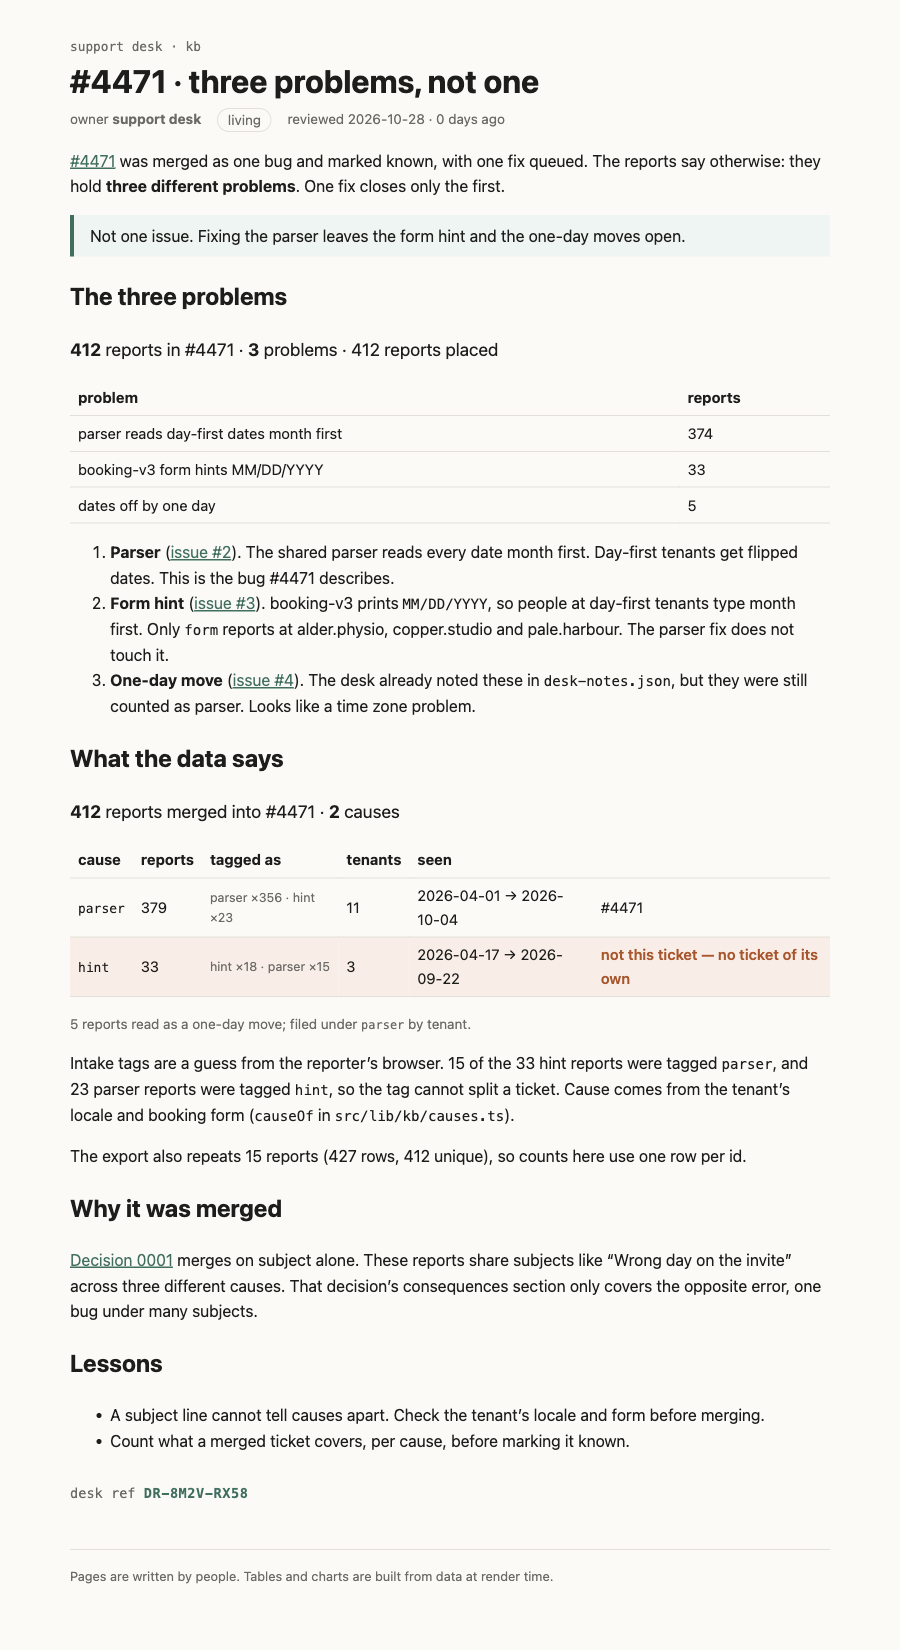
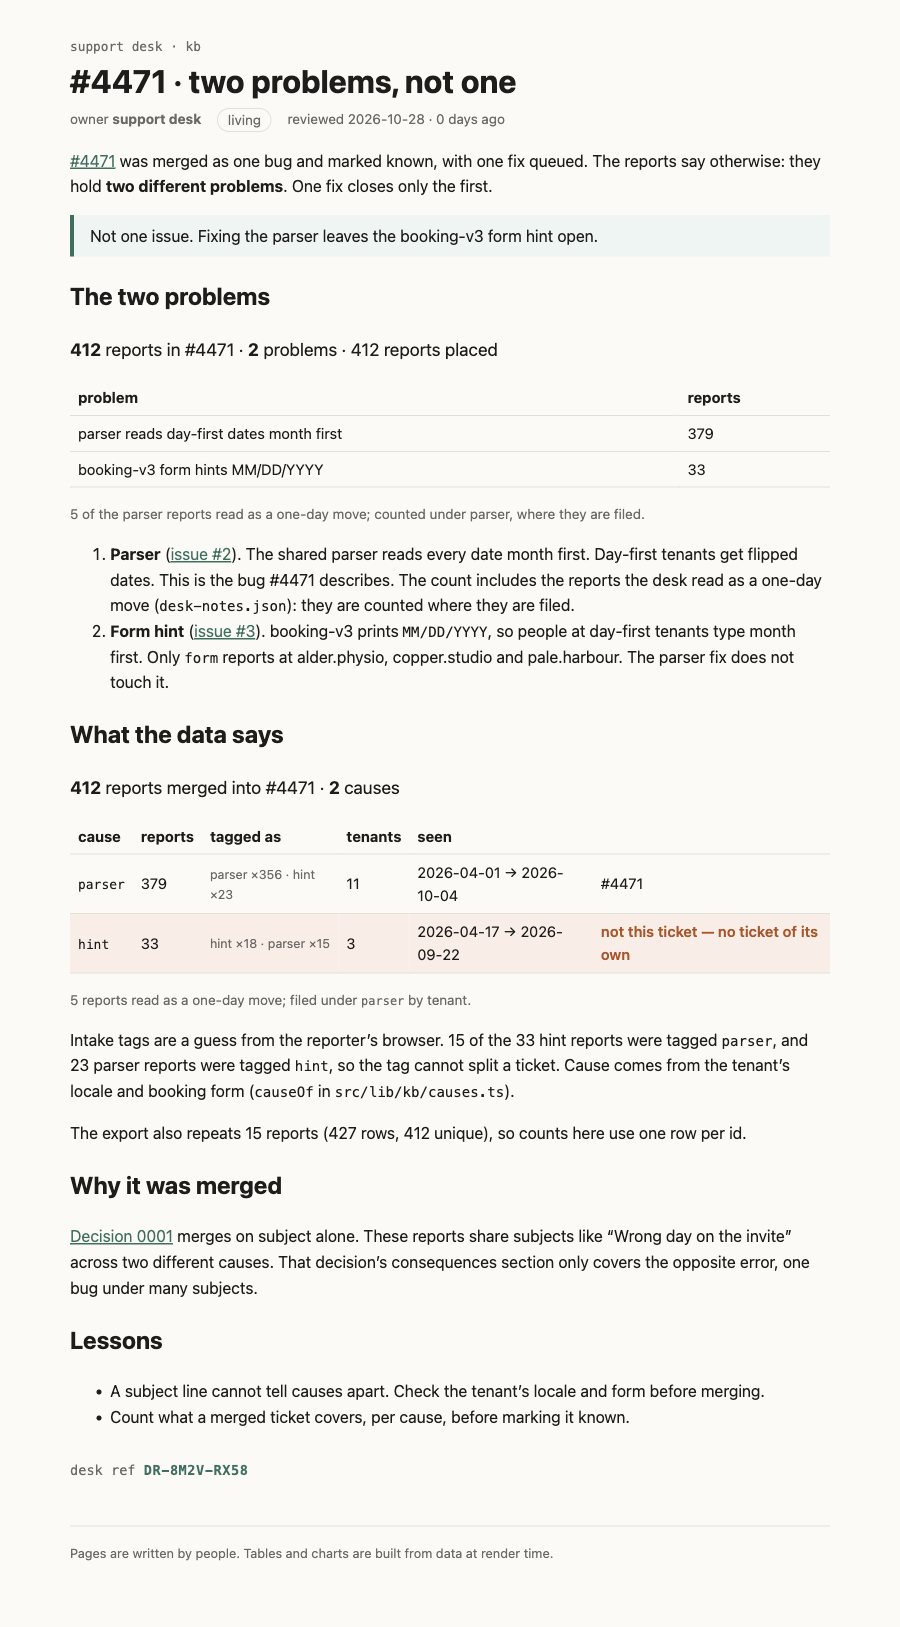
Count the one-day-move reports under parser; two problems

Changed region(s): [[0.0622, 0.0307, 0.9022, 0.9219], [0.4044, 0.1844, 0.56, 0.2151]]

diff --git a/support-kb/rendered/4471-split.html b/support-kb/rendered/4471-split.html
@@ -1,8 +1,8 @@
-<!doctype html><html><head><meta charset="utf-8"><!--12p242h--><!----><title>#4471 · three problems, not one · support kb</title><style id="svelte-12p242h">:root {--bg: #fbfaf7;--fg: #1d1d1b;--muted: #6b6a66;--line: #e3e0d8;--accent: #2f6f5e;--warn: #b4501f;--warn-bg: #fbeee6;--note-bg: #eef5f2;--mono: ui-monospace, 'Cascadia Code', Menlo, monospace;}
+<!doctype html><html><head><meta charset="utf-8"><!--12p242h--><!----><title>#4471 · two problems, not one · support kb</title><style id="svelte-12p242h">:root {--bg: #fbfaf7;--fg: #1d1d1b;--muted: #6b6a66;--line: #e3e0d8;--accent: #2f6f5e;--warn: #b4501f;--warn-bg: #fbeee6;--note-bg: #eef5f2;--mono: ui-monospace, 'Cascadia Code', Menlo, monospace;}
   @media (prefers-color-scheme: dark) {:root {--bg: #171716;--fg: #ecebe6;--muted: #9c9a93;--line: #34332f;--accent: #6fbfa6;--warn: #f0905d;--warn-bg: #3a2418;--note-bg: #1d2c27;}
-  }body {margin:0;background:var(--bg);color:var(--fg);font:16px/1.6 system-ui, sans-serif;}.kb table {border-collapse:collapse;width:100%;margin:1rem 0;font-size:0.92rem;}.kb th, .kb td {border-bottom:1px solid var(--line);padding:0.35rem 0.5rem;text-align:left;}.kb code {font-family:var(--mono);font-size:0.88em;}.kb a {color:var(--accent);}.kb.svelte-12p242h {max-width:760px;margin:0 auto;padding:2rem 16px 4rem;}.crumb.svelte-12p242h {font:0.8rem var(--mono);text-decoration:none;color:var(--muted);}h1.svelte-12p242h {margin:0.25rem 0 0.5rem;line-height:1.2;}.meta.svelte-12p242h {display:flex;flex-wrap:wrap;gap:0.5rem 1rem;color:var(--muted);font-size:0.85rem;margin:0;}.status.svelte-12p242h {border:1px solid var(--line);border-radius:99px;padding:0 0.6rem;}.stale.svelte-12p242h {color:var(--warn);font-weight:600;}.banner.svelte-12p242h {background:var(--warn-bg);color:var(--warn);padding:0.6rem 1rem;border-radius:6px;}footer.svelte-12p242h {margin-top:3rem;color:var(--muted);font-size:0.8rem;border-top:1px solid var(--line);padding-top:1rem;}</style><style id="svelte-13fbx6b">aside.svelte-13fbx6b {border-left:4px solid var(--accent);padding:0.5rem 1rem;margin:1rem 0;background:var(--note-bg);}aside.warn.svelte-13fbx6b {border-color:var(--warn);background:var(--warn-bg);}</style><style id="svelte-napuhc">.sum.svelte-napuhc {font-size:1.1rem;}</style><style id="svelte-ogfzus">.sum.svelte-ogfzus {font-size:1.1rem;}.tags.svelte-ogfzus {color:var(--muted);font-size:0.85em;}.note.svelte-ogfzus {color:var(--muted);font-size:0.85em;}.wrong.svelte-ogfzus td:where(.svelte-ogfzus) {background:var(--warn-bg);}.wrong.svelte-ogfzus td:where(.svelte-ogfzus):last-child {color:var(--warn);font-weight:600;}</style><style id="svelte-1keb8zs">.stamp.svelte-1keb8zs {margin:2rem 0 0;font:0.85rem var(--mono);color:var(--muted);}.stamp.svelte-1keb8zs b:where(.svelte-1keb8zs) {color:var(--accent);letter-spacing:0.04em;}.missing.svelte-1keb8zs {color:var(--warn);}</style></head><body><!--[--><div class="kb svelte-12p242h"><header class="svelte-12p242h"><a class="crumb svelte-12p242h" href="/kb">support desk · kb</a> <h1 class="svelte-12p242h">#4471 · three problems, not one</h1> <p class="meta svelte-12p242h"><span class="svelte-12p242h">owner <b class="svelte-12p242h">support desk</b></span> <span class="status living svelte-12p242h">living</span> <span class="svelte-12p242h">reviewed 2026-10-28 · 0 days ago</span></p></header> <!--[-1--><!--]--> <main class="svelte-12p242h"><p><a href="/kb/incidents/4471">#4471</a> was merged as one bug and marked known, with one fix queued. The
-reports say otherwise: they hold <strong>three different problems</strong>. One fix closes only the first.</p> <aside class="note svelte-13fbx6b"><!---->Not one issue. Fixing the parser leaves the form hint and the one-day moves open.<!----></aside><!----> <h2>The three problems</h2> <p class="sum svelte-napuhc"><strong class="svelte-napuhc">412</strong> reports in #4471 · <strong class="svelte-napuhc">3</strong> problems ·
-  412 reports placed</p> <table class="svelte-napuhc"><thead class="svelte-napuhc"><tr class="svelte-napuhc"><th class="svelte-napuhc">problem</th><th class="svelte-napuhc">reports</th></tr></thead><tbody class="svelte-napuhc"><!--[--><tr class="svelte-napuhc"><td class="svelte-napuhc">parser reads day-first dates month first</td><td class="svelte-napuhc">374</td></tr><tr class="svelte-napuhc"><td class="svelte-napuhc">booking-v3 form hints MM/DD/YYYY</td><td class="svelte-napuhc">33</td></tr><tr class="svelte-napuhc"><td class="svelte-napuhc">dates off by one day</td><td class="svelte-napuhc">5</td></tr><!--]--></tbody></table><!----> <ol><li><strong>Parser</strong> (<a href="https://github.com/pablocabrera85/empty-repo/issues/2" rel="nofollow">issue #2</a>). The shared parser reads every date month first. Day-first tenants get flipped dates. This is the bug #4471 describes.</li> <li><strong>Form hint</strong> (<a href="https://github.com/pablocabrera85/empty-repo/issues/3" rel="nofollow">issue #3</a>). booking-v3 prints <code>MM/DD/YYYY</code>, so people at day-first tenants type month first. Only <code>form</code> reports at alder.physio, copper.studio and pale.harbour. The parser fix does not touch it.</li> <li><strong>One-day move</strong> (<a href="https://github.com/pablocabrera85/empty-repo/issues/4" rel="nofollow">issue #4</a>). The desk already noted these in <code>desk-notes.json</code>, but they were still counted as parser. Looks like a time zone problem.</li></ol> <h2>What the data says</h2> <p class="sum svelte-ogfzus"><strong class="svelte-ogfzus">412</strong> reports merged into #4471 · <strong class="svelte-ogfzus">2</strong> causes</p> <table class="svelte-ogfzus"><thead class="svelte-ogfzus"><tr class="svelte-ogfzus"><th class="svelte-ogfzus">cause</th><th class="svelte-ogfzus">reports</th><th class="svelte-ogfzus">tagged as</th><th class="svelte-ogfzus">tenants</th><th class="svelte-ogfzus">seen</th><th class="svelte-ogfzus"></th></tr></thead><tbody class="svelte-ogfzus"><!--[--><tr class="svelte-ogfzus"><td class="svelte-ogfzus"><code class="svelte-ogfzus">parser</code></td><td class="svelte-ogfzus">379</td><td class="tags svelte-ogfzus">parser ×356 · hint ×23</td><td class="svelte-ogfzus">11</td><td class="svelte-ogfzus">2026-04-01 → 2026-10-04</td><td class="svelte-ogfzus">#4471</td></tr><tr class="svelte-ogfzus wrong"><td class="svelte-ogfzus"><code class="svelte-ogfzus">hint</code></td><td class="svelte-ogfzus">33</td><td class="tags svelte-ogfzus">hint ×18 · parser ×15</td><td class="svelte-ogfzus">3</td><td class="svelte-ogfzus">2026-04-17 → 2026-09-22</td><td class="svelte-ogfzus">not this ticket — no ticket of its own</td></tr><!--]--></tbody></table> <!--[--><!--[0--><p class="note svelte-ogfzus">5 reports read as a one-day move; filed under <code class="svelte-ogfzus">parser</code> by tenant.</p><!--]--><!--[-1--><!--]--><!--]--><!----> <p>Intake tags are a guess from the reporter’s browser. 15 of the 33 hint reports were tagged <code>parser</code>, and 23 parser reports were tagged <code>hint</code>, so the tag cannot split a ticket.
+  }body {margin:0;background:var(--bg);color:var(--fg);font:16px/1.6 system-ui, sans-serif;}.kb table {border-collapse:collapse;width:100%;margin:1rem 0;font-size:0.92rem;}.kb th, .kb td {border-bottom:1px solid var(--line);padding:0.35rem 0.5rem;text-align:left;}.kb code {font-family:var(--mono);font-size:0.88em;}.kb a {color:var(--accent);}.kb.svelte-12p242h {max-width:760px;margin:0 auto;padding:2rem 16px 4rem;}.crumb.svelte-12p242h {font:0.8rem var(--mono);text-decoration:none;color:var(--muted);}h1.svelte-12p242h {margin:0.25rem 0 0.5rem;line-height:1.2;}.meta.svelte-12p242h {display:flex;flex-wrap:wrap;gap:0.5rem 1rem;color:var(--muted);font-size:0.85rem;margin:0;}.status.svelte-12p242h {border:1px solid var(--line);border-radius:99px;padding:0 0.6rem;}.stale.svelte-12p242h {color:var(--warn);font-weight:600;}.banner.svelte-12p242h {background:var(--warn-bg);color:var(--warn);padding:0.6rem 1rem;border-radius:6px;}footer.svelte-12p242h {margin-top:3rem;color:var(--muted);font-size:0.8rem;border-top:1px solid var(--line);padding-top:1rem;}</style><style id="svelte-13fbx6b">aside.svelte-13fbx6b {border-left:4px solid var(--accent);padding:0.5rem 1rem;margin:1rem 0;background:var(--note-bg);}aside.warn.svelte-13fbx6b {border-color:var(--warn);background:var(--warn-bg);}</style><style id="svelte-napuhc">.sum.svelte-napuhc {font-size:1.1rem;}.note.svelte-napuhc {color:var(--muted);font-size:0.85em;}</style><style id="svelte-ogfzus">.sum.svelte-ogfzus {font-size:1.1rem;}.tags.svelte-ogfzus {color:var(--muted);font-size:0.85em;}.note.svelte-ogfzus {color:var(--muted);font-size:0.85em;}.wrong.svelte-ogfzus td:where(.svelte-ogfzus) {background:var(--warn-bg);}.wrong.svelte-ogfzus td:where(.svelte-ogfzus):last-child {color:var(--warn);font-weight:600;}</style><style id="svelte-1keb8zs">.stamp.svelte-1keb8zs {margin:2rem 0 0;font:0.85rem var(--mono);color:var(--muted);}.stamp.svelte-1keb8zs b:where(.svelte-1keb8zs) {color:var(--accent);letter-spacing:0.04em;}.missing.svelte-1keb8zs {color:var(--warn);}</style></head><body><!--[--><div class="kb svelte-12p242h"><header class="svelte-12p242h"><a class="crumb svelte-12p242h" href="/kb">support desk · kb</a> <h1 class="svelte-12p242h">#4471 · two problems, not one</h1> <p class="meta svelte-12p242h"><span class="svelte-12p242h">owner <b class="svelte-12p242h">support desk</b></span> <span class="status living svelte-12p242h">living</span> <span class="svelte-12p242h">reviewed 2026-10-28 · 0 days ago</span></p></header> <!--[-1--><!--]--> <main class="svelte-12p242h"><p><a href="/kb/incidents/4471">#4471</a> was merged as one bug and marked known, with one fix queued. The
+reports say otherwise: they hold <strong>two different problems</strong>. One fix closes only the first.</p> <aside class="note svelte-13fbx6b"><!---->Not one issue. Fixing the parser leaves the booking-v3 form hint open.<!----></aside><!----> <h2>The two problems</h2> <p class="sum svelte-napuhc"><strong class="svelte-napuhc">412</strong> reports in #4471 · <strong class="svelte-napuhc">2</strong> problems ·
+  412 reports placed</p> <table class="svelte-napuhc"><thead class="svelte-napuhc"><tr class="svelte-napuhc"><th class="svelte-napuhc">problem</th><th class="svelte-napuhc">reports</th></tr></thead><tbody class="svelte-napuhc"><!--[--><tr class="svelte-napuhc"><td class="svelte-napuhc">parser reads day-first dates month first</td><td class="svelte-napuhc">379</td></tr><tr class="svelte-napuhc"><td class="svelte-napuhc">booking-v3 form hints MM/DD/YYYY</td><td class="svelte-napuhc">33</td></tr><!--]--></tbody></table> <!--[0--><p class="note svelte-napuhc">5 of the parser reports read as a one-day move; counted under parser, where they are filed.</p><!--]--><!----> <ol><li><strong>Parser</strong> (<a href="https://github.com/pablocabrera85/empty-repo/issues/2" rel="nofollow">issue #2</a>). The shared parser reads every date month first. Day-first tenants get flipped dates. This is the bug #4471 describes. The count includes the reports the desk read as a one-day move (<code>desk-notes.json</code>): they are counted where they are filed.</li> <li><strong>Form hint</strong> (<a href="https://github.com/pablocabrera85/empty-repo/issues/3" rel="nofollow">issue #3</a>). booking-v3 prints <code>MM/DD/YYYY</code>, so people at day-first tenants type month first. Only <code>form</code> reports at alder.physio, copper.studio and pale.harbour. The parser fix does not touch it.</li></ol> <h2>What the data says</h2> <p class="sum svelte-ogfzus"><strong class="svelte-ogfzus">412</strong> reports merged into #4471 · <strong class="svelte-ogfzus">2</strong> causes</p> <table class="svelte-ogfzus"><thead class="svelte-ogfzus"><tr class="svelte-ogfzus"><th class="svelte-ogfzus">cause</th><th class="svelte-ogfzus">reports</th><th class="svelte-ogfzus">tagged as</th><th class="svelte-ogfzus">tenants</th><th class="svelte-ogfzus">seen</th><th class="svelte-ogfzus"></th></tr></thead><tbody class="svelte-ogfzus"><!--[--><tr class="svelte-ogfzus"><td class="svelte-ogfzus"><code class="svelte-ogfzus">parser</code></td><td class="svelte-ogfzus">379</td><td class="tags svelte-ogfzus">parser ×356 · hint ×23</td><td class="svelte-ogfzus">11</td><td class="svelte-ogfzus">2026-04-01 → 2026-10-04</td><td class="svelte-ogfzus">#4471</td></tr><tr class="svelte-ogfzus wrong"><td class="svelte-ogfzus"><code class="svelte-ogfzus">hint</code></td><td class="svelte-ogfzus">33</td><td class="tags svelte-ogfzus">hint ×18 · parser ×15</td><td class="svelte-ogfzus">3</td><td class="svelte-ogfzus">2026-04-17 → 2026-09-22</td><td class="svelte-ogfzus">not this ticket — no ticket of its own</td></tr><!--]--></tbody></table> <!--[--><!--[0--><p class="note svelte-ogfzus">5 reports read as a one-day move; filed under <code class="svelte-ogfzus">parser</code> by tenant.</p><!--]--><!--[-1--><!--]--><!--]--><!----> <p>Intake tags are a guess from the reporter’s browser. 15 of the 33 hint reports were tagged <code>parser</code>, and 23 parser reports were tagged <code>hint</code>, so the tag cannot split a ticket.
 Cause comes from the tenant’s locale and booking form (<code>causeOf</code> in <code>src/lib/kb/causes.ts</code>).</p> <p>The export also repeats 15 reports (427 rows, 412 unique), so counts here use one row per id.</p> <h2>Why it was merged</h2> <p><a href="/kb/decisions/0001-dedupe-by-subject">Decision 0001</a> merges on subject alone. These reports share
-subjects like “Wrong day on the invite” across three different causes. That decision’s
+subjects like “Wrong day on the invite” across two different causes. That decision’s
 consequences section only covers the opposite error, one bug under many subjects.</p> <h2>Lessons</h2> <ul><li>A subject line cannot tell causes apart. Check the tenant’s locale and form before merging.</li> <li>Count what a merged ticket covers, per cause, before marking it known.</li></ul> <!--[0--><p class="stamp svelte-1keb8zs">desk ref <b class="svelte-1keb8zs">DR-8M2V-RX58</b></p><!--]--><!----><!----></main> <footer class="svelte-12p242h">Pages are written by people. Tables and charts are built from data at render time.</footer></div><!----><!--]--></body></html>

diff --git a/support-kb/src/lib/kb/ProblemCounts.svelte b/support-kb/src/lib/kb/ProblemCounts.svelte
@@ -11,9 +11,8 @@
   const count = (cause: string) => groups.find((g) => g.cause === cause)?.reports.length ?? 0;
   const oneDay = $derived(groups.reduce((n, g) => n + readAs(g, notes.oneDayMove), 0));
   const rows = $derived([
-    { problem: 'parser reads day-first dates month first', reports: count('parser') - oneDay },
+    { problem: 'parser reads day-first dates month first', reports: count('parser') },
     { problem: 'booking-v3 form hints MM/DD/YYYY', reports: count('hint') },
-    { problem: 'dates off by one day', reports: oneDay },
   ]);
 </script>
 
@@ -31,6 +30,11 @@
   </tbody>
 </table>
 
+{#if oneDay}
+  <p class="note">{oneDay} of the parser reports read as a one-day move; counted under parser, where they are filed.</p>
+{/if}
+
 <style>
   .sum { font-size: 1.1rem; }
+  .note { color: var(--muted); font-size: 0.85em; }
 </style>
